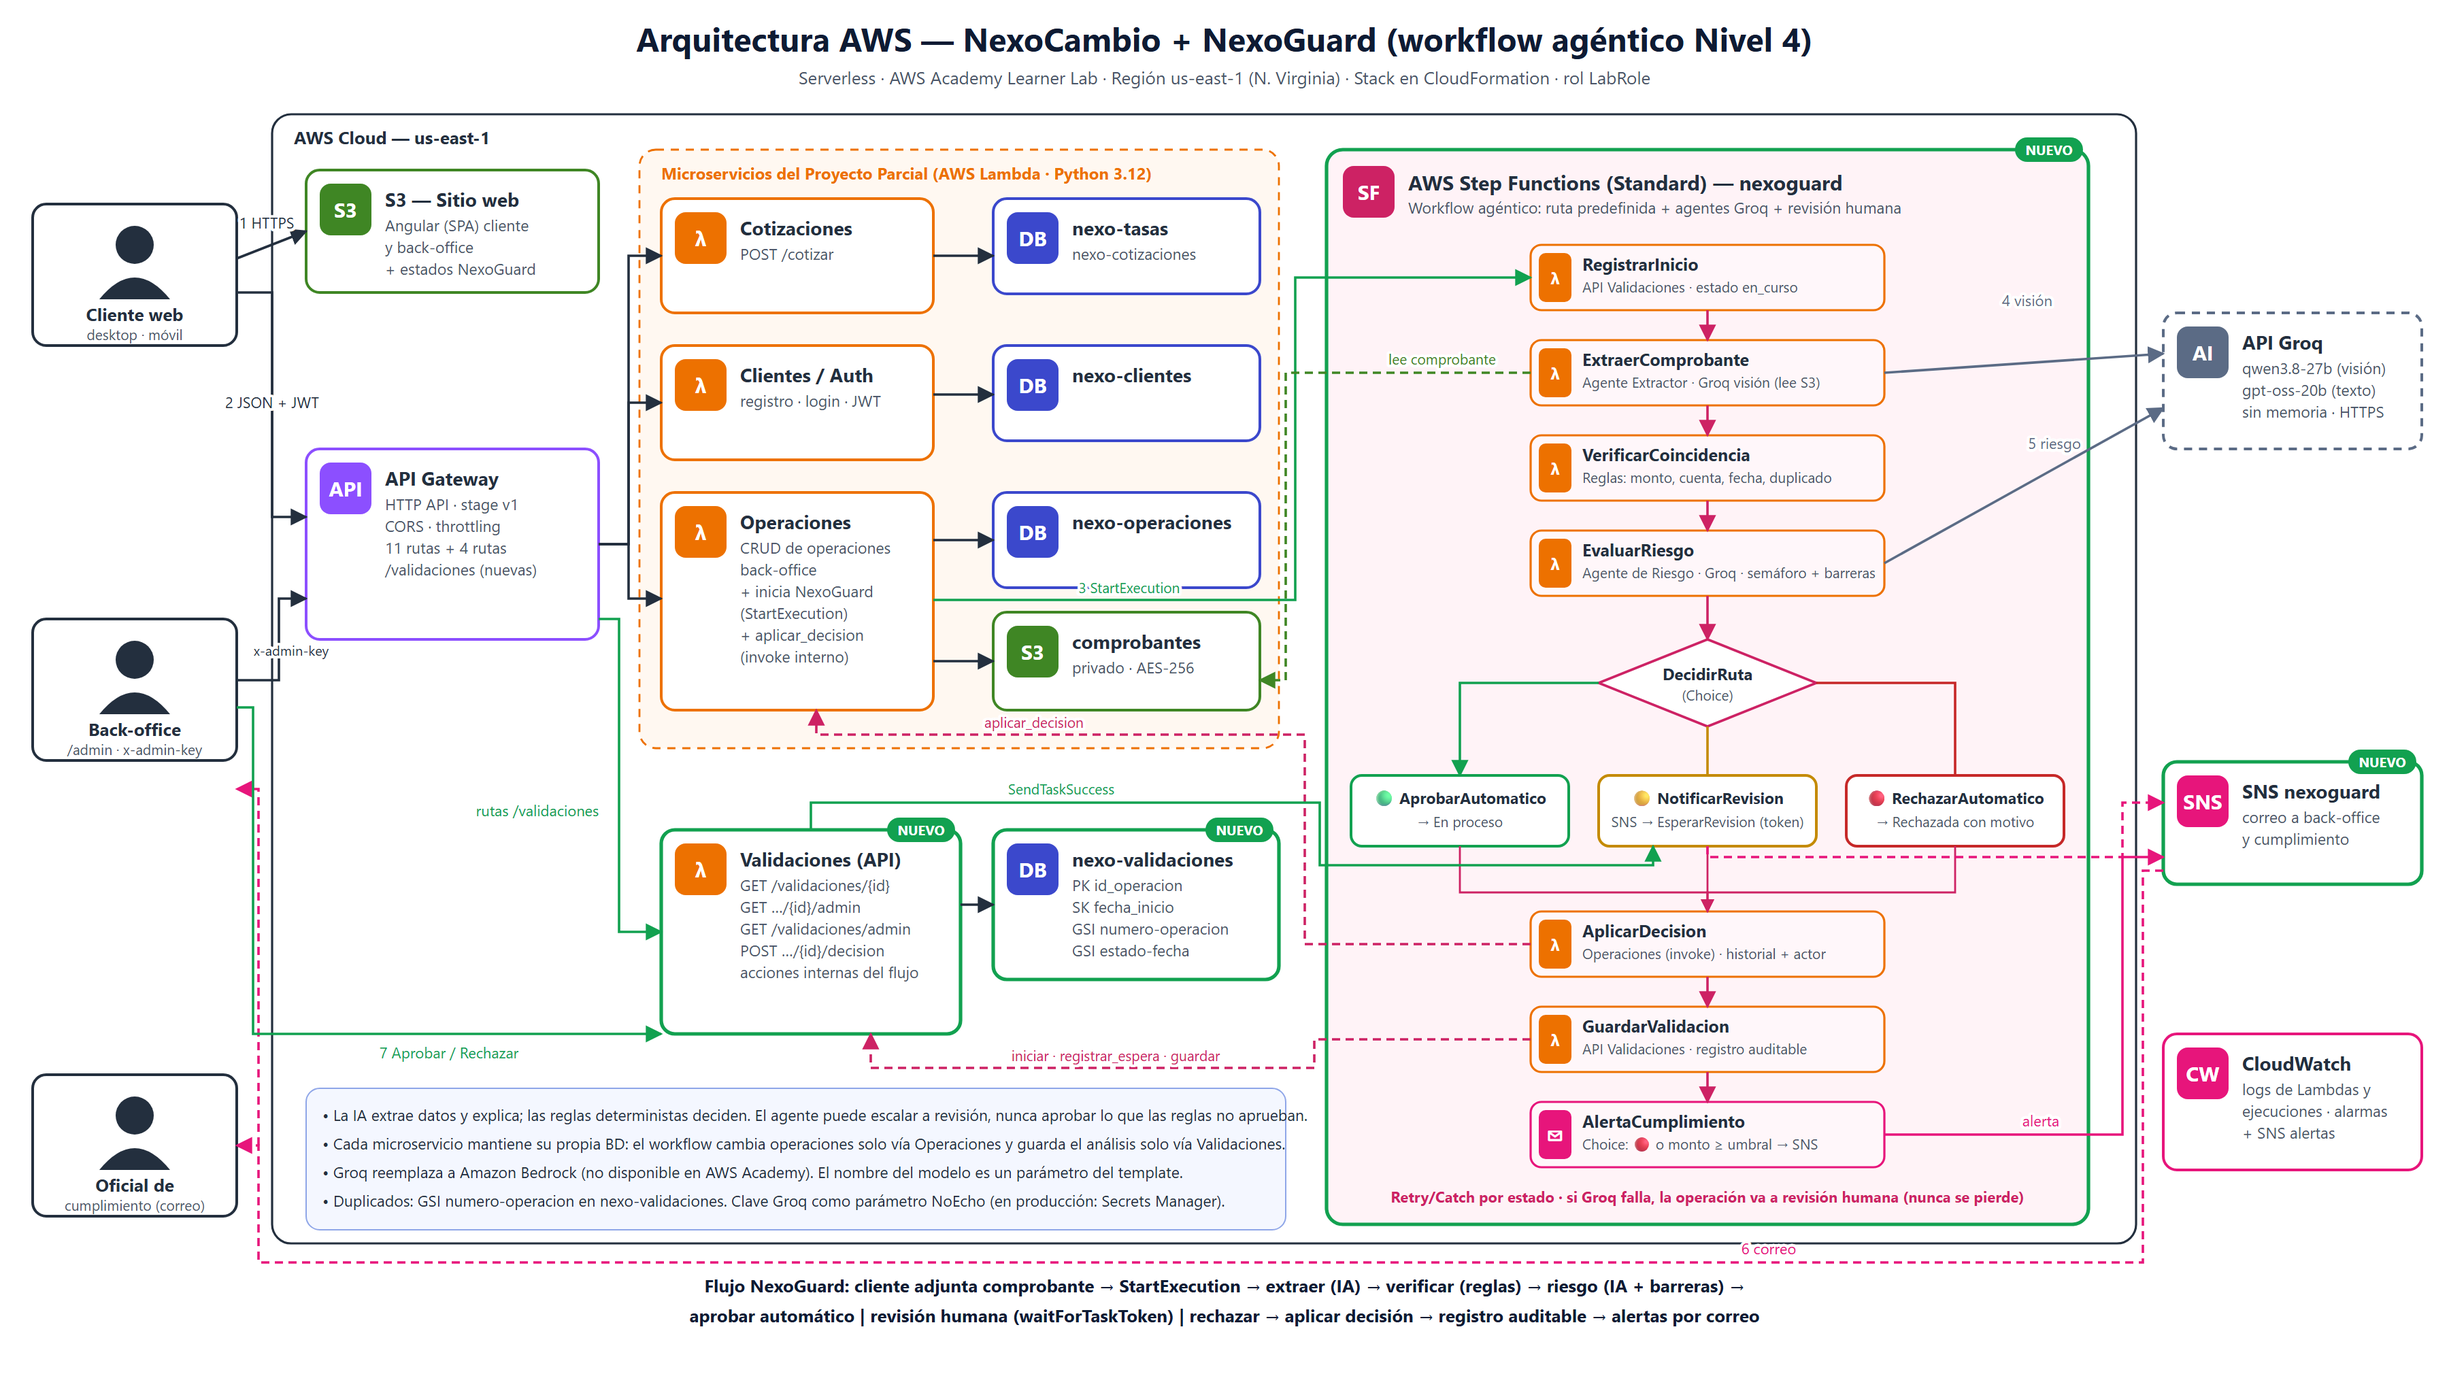
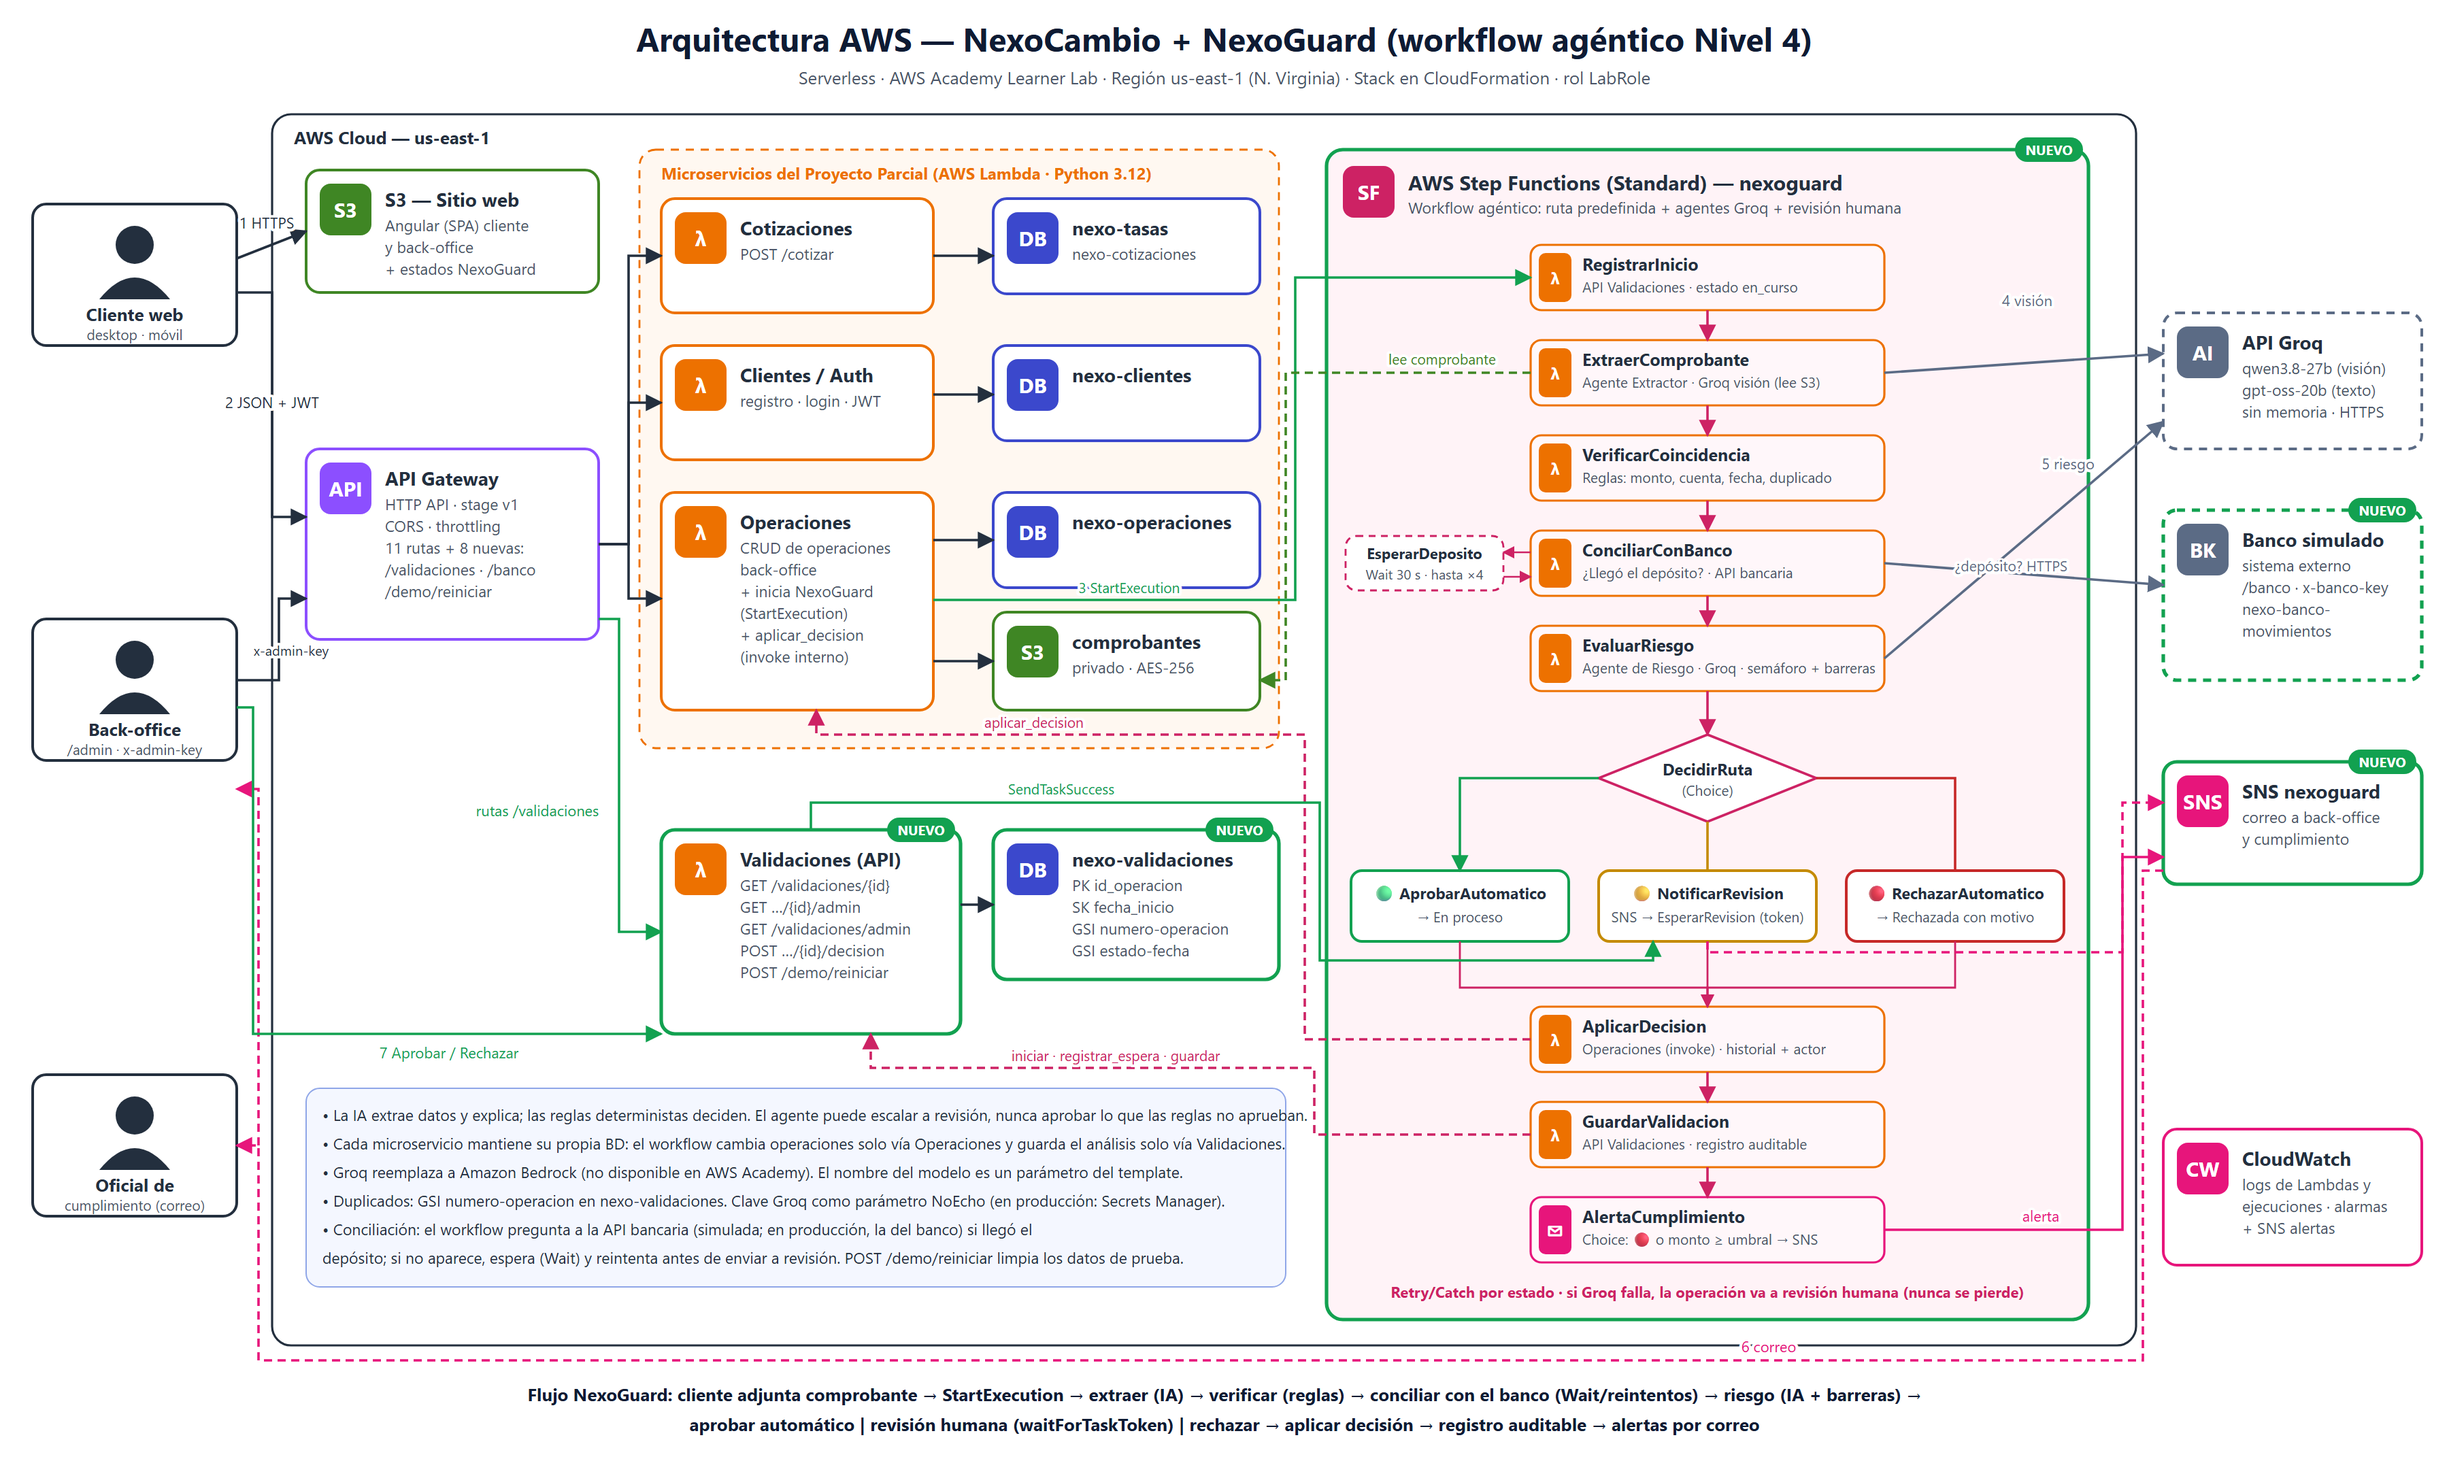
Agregar el banco simulado y la conciliación al diagrama de arquitectura
Paso ConciliarConBanco con su ciclo EsperarDeposito (Wait), banco simulado
como sistema externo (x-banco-key), rutas /banco y /demo/reiniciar y nota
sobre el reinicio de datos de prueba.

diff --git a/docs/final/generar_diagrama_nexoguard.py b/docs/final/generar_diagrama_nexoguard.py
@@ -6,7 +6,7 @@ import subprocess
 from pathlib import Path
 from xml.sax.saxutils import escape as esc
 
-W, H = 1800, 1010
+W, H = 1800, 1085
 DIR = Path(__file__).resolve().parent
 COL = {"lambda": "#ED7100", "api": "#8C4FFF", "ddb": "#3B48CC", "s3": "#3F8624", "cw": "#E7157B",
        "ext": "#5B6B85", "user": "#232F3E", "sfn": "#CD2264", "sns": "#E7157B"}
@@ -72,7 +72,7 @@ text(W / 2, 62, "Serverless · AWS Academy Learner Lab · Región us-east-1 (N. 
      13, fill="#4A5568", anchor="middle")
 
 # Nube AWS
-a('<rect x="200" y="84" width="1370" height="830" rx="14" fill="none" stroke="#232F3E" stroke-width="1.6"/>')
+a('<rect x="200" y="84" width="1370" height="905" rx="14" fill="none" stroke="#232F3E" stroke-width="1.6"/>')
 text(216, 106, "AWS Cloud — us-east-1", 13, True)
 
 # ---------------------------------------------------------------- usuarios
@@ -85,7 +85,7 @@ for y, t, s in [(150, "Cliente web", "desktop · móvil"), (455, "Back-office", 
 
 # ---------------------------------------------------------------- borde
 box(225, 125, 215, 90, "s3", "S3", "S3 — Sitio web", ["Angular (SPA) cliente", "y back-office", "+ estados NexoGuard"])
-box(225, 330, 215, 140, "api", "API", "API Gateway", ["HTTP API · stage v1", "CORS · throttling", "11 rutas + 4 rutas", "/validaciones (nuevas)"])
+box(225, 330, 215, 140, "api", "API", "API Gateway", ["HTTP API · stage v1", "CORS · throttling", "11 rutas + 8 nuevas:", "/validaciones · /banco", "/demo/reiniciar"])
 
 # ---------------------------------------------------------------- microservicios
 a('<rect x="470" y="110" width="470" height="440" rx="12" fill="#FFF8F1" stroke="#ED7100" stroke-dasharray="6 5" stroke-width="1.4"/>')
@@ -103,7 +103,7 @@ flecha([(686, 397), (730, 397)])
 flecha([(686, 486), (730, 486)])
 
 # API Validaciones (nuevo)
-box(486, 610, 220, 150, "lambda", "λ", "Validaciones (API)", ["GET /validaciones/{id}", "GET …/{id}/admin", "GET /validaciones/admin", "POST …/{id}/decision", "acciones internas del flujo"], nuevo=True)
+box(486, 610, 220, 150, "lambda", "λ", "Validaciones (API)", ["GET /validaciones/{id}", "GET …/{id}/admin", "GET /validaciones/admin", "POST …/{id}/decision", "POST /demo/reiniciar"], nuevo=True)
 box(730, 610, 210, 110, "ddb", "DB", "nexo-validaciones", ["PK id_operacion", "SK fecha_inicio", "GSI numero-operacion", "GSI estado-fecha"], nuevo=True)
 flecha([(706, 665), (730, 665)])
 
@@ -116,7 +116,7 @@ for y in (188, 296, 440):
 flecha([(440, 455), (455, 455), (455, 685), (486, 685)], color=NUEVO, label="rutas /validaciones", lx=395, ly=600)
 
 # ---------------------------------------------------------------- Step Functions
-SX, SY, SW, SH = 975, 110, 560, 790
+SX, SY, SW, SH = 975, 110, 560, 860
 a(f'<rect x="{SX}" y="{SY}" width="{SW}" height="{SH}" rx="12" fill="#FFF3F7" stroke="{NUEVO}" stroke-width="2.6"/>')
 a(f'<rect x="{SX + 12}" y="{SY + 12}" width="38" height="38" rx="8" fill="{COL["sfn"]}"/>')
 text(SX + 31, SY + 37, "SF", 15, True, "#fff", "middle")
@@ -130,6 +130,7 @@ pw = 260
 steps = [("RegistrarInicio", "API Validaciones · estado en_curso", "lambda", "λ"),
          ("ExtraerComprobante", "Agente Extractor · Groq visión (lee S3)", "lambda", "λ"),
          ("VerificarCoincidencia", "Reglas: monto, cuenta, fecha, duplicado", "lambda", "λ"),
+         ("ConciliarConBanco", "¿Llegó el depósito? · API bancaria", "lambda", "λ"),
          ("EvaluarRiesgo", "Agente de Riesgo · Groq · semáforo + barreras", "lambda", "λ")]
 y0 = SY + 70
 for i, (t, s, k, g) in enumerate(steps):
@@ -137,12 +138,19 @@ for i, (t, s, k, g) in enumerate(steps):
     if i:
         flecha([(cx + pw / 2, y0 + i * 70 - 22), (cx + pw / 2, y0 + i * 70)], COL["sfn"])
 # Choice
-dy = y0 + 4 * 70 + 10
+dy = y0 + 5 * 70 + 10
 dcx = cx + pw / 2
 a(f'<polygon points="{dcx},{dy} {dcx + 80},{dy + 32} {dcx},{dy + 64} {dcx - 80},{dy + 32}" fill="#fff" stroke="{COL["sfn"]}" stroke-width="1.8"/>')
 text(dcx, dy + 30, "DecidirRuta", 12, True, anchor="middle")
 text(dcx, dy + 45, "(Choice)", 10.5, fill="#4A5568", anchor="middle")
-flecha([(dcx, y0 + 3 * 70 + 48), (dcx, dy)], COL["sfn"])
+flecha([(dcx, y0 + 4 * 70 + 48), (dcx, dy)], COL["sfn"])
+# ciclo de espera de la conciliación (estado Wait)
+wy = y0 + 3 * 70
+a(f'<rect x="{SX + 14}" y="{wy + 4}" width="116" height="40" rx="8" fill="#fff" stroke="{COL["sfn"]}" stroke-width="1.4" stroke-dasharray="5 4"/>')
+text(SX + 72, wy + 21, "EsperarDeposito", 11, True, anchor="middle")
+text(SX + 72, wy + 36, "Wait 30 s · hasta ×4", 10, fill="#4A5568", anchor="middle")
+flecha([(cx, wy + 16), (SX + 130, wy + 16)], COL["sfn"], w=1.3)
+flecha([(SX + 130, wy + 34), (cx, wy + 34)], COL["sfn"], w=1.3)
 by = dy + 100
 ramas = [(SX + 18, "🟢 AprobarAutomatico", "→ En proceso", "#12A150"),
          (SX + 200, "🟡 NotificarRevision", "SNS → EsperarRevision (token)", "#C48A00"),
@@ -168,34 +176,38 @@ text(SX + SW / 2, SY + SH - 16, "Retry/Catch por estado · si Groq falla, la ope
 # ---------------------------------------------------------------- servicios a la derecha
 box(1590, 230, 190, 100, "ext", "AI", "API Groq", ["qwen3.8-27b (visión)", "gpt-oss-20b (texto)", "sin memoria · HTTPS"], dash=True)
 box(1590, 560, 190, 90, "sns", "SNS", "SNS nexoguard", ["correo a back-office", "y cumplimiento"], nuevo=True)
-box(1590, 760, 190, 100, "cw", "CW", "CloudWatch", ["logs de Lambdas y", "ejecuciones · alarmas", "+ SNS alertas"])
+box(1590, 375, 190, 125, "ext", "BK", "Banco simulado", ["sistema externo", "/banco · x-banco-key", "nexo-banco-", "movimientos"], nuevo=True, dash=True)
+box(1590, 830, 190, 100, "cw", "CW", "CloudWatch", ["logs de Lambdas y", "ejecuciones · alarmas", "+ SNS alertas"])
 
 # conexiones del workflow
 flecha([(686, 441), (952, 441), (952, y0 + 24), (cx, y0 + 24)], NUEVO, label="3 StartExecution", lx=830, ly=436, lsize=10.5)
 flecha([(cx, y0 + 70 + 24), (945, y0 + 94), (945, 500), (926, 500)], COL["s3"], label="lee comprobante", lx=1060, ly=y0 + 88, dash=True, lsize=10.5)
 flecha([(cx + pw, y0 + 70 + 24), (1590, 260)], COL["ext"], label="4 visión", lx=1490, ly=225)
-flecha([(cx + pw, y0 + 210 + 24), (1590, 300)], COL["ext"], label="5 riesgo", lx=1510, ly=330)
+flecha([(cx + pw, y0 + 280 + 24), (1590, 310)], COL["ext"], label="5 riesgo", lx=1520, ly=345)
+flecha([(cx + pw, y0 + 210 + 24), (1590, 430)], COL["ext"], label="¿depósito? HTTPS", lx=1478, ly=420, lsize=10.5)
 flecha([(cx, ay + 24), (959, ay + 24), (959, 540), (600, 540), (600, 522)], COL["sfn"], label="aplicar_decision", lx=760, ly=535, dash=True, lsize=10.5)
 flecha([(cx, ay + 94), (966, ay + 94), (966, 785), (640, 785), (640, 760)], COL["sfn"], label="iniciar · registrar_espera · guardar", lx=820, ly=780, dash=True, lsize=10.5)
 flecha([(SX + 280, by + 52), (SX + 280, by + 60), (1560, by + 60), (1560, 590), (1590, 590)], COL["sns"], dash=True)
 flecha([(cx + pw, ay + 164), (1560, ay + 164), (1560, 630), (1590, 630)], COL["sns"], label="alerta", lx=1500, ly=ay + 158)
-flecha([(1590, 640), (1575, 640), (1575, 928), (190, 928), (190, 842), (174, 842)], COL["sns"], label="6 correo", lx=1300, ly=922, dash=True)
+flecha([(1590, 640), (1575, 640), (1575, 1000), (190, 1000), (190, 842), (174, 842)], COL["sns"], label="6 correo", lx=1300, ly=994, dash=True)
 flecha([(190, 842), (190, 580), (174, 580)], COL["sns"], dash=True)
 # decisión humana
 flecha([(174, 520), (186, 520), (186, 760), (486, 760)], NUEVO, label="7 Aprobar / Rechazar", lx=330, ly=778)
 flecha([(596, 610), (596, 590), (970, 590), (970, by + 66), (SX + 240, by + 66), (SX + 240, by + 52)], NUEVO, label="SendTaskSuccess", lx=780, ly=584, lsize=10.5)
 
 # leyenda / decisiones
-a('<rect x="225" y="800" width="720" height="104" rx="10" fill="#F4F7FF" stroke="#8FA6E8"/>')
+a('<rect x="225" y="800" width="720" height="146" rx="10" fill="#F4F7FF" stroke="#8FA6E8"/>')
 notas = ["• La IA extrae datos y explica; las reglas deterministas deciden. El agente puede escalar a revisión, nunca aprobar lo que las reglas no aprueban.",
          "• Cada microservicio mantiene su propia BD: el workflow cambia operaciones solo vía Operaciones y guarda el análisis solo vía Validaciones.",
          "• Groq reemplaza a Amazon Bedrock (no disponible en AWS Academy). El nombre del modelo es un parámetro del template.",
-         "• Duplicados: GSI numero-operacion en nexo-validaciones. Clave Groq como parámetro NoEcho (en producción: Secrets Manager)."]
+         "• Duplicados: GSI numero-operacion en nexo-validaciones. Clave Groq como parámetro NoEcho (en producción: Secrets Manager).",
+         "• Conciliación: el workflow pregunta a la API bancaria (simulada; en producción, la del banco) si llegó el",
+         "  depósito; si no aparece, espera (Wait) y reintenta antes de enviar a revisión. POST /demo/reiniciar limpia los datos de prueba."]
 for i, n in enumerate(notas):
     text(237, 824 + i * 21, n, 11.5)
-text(W / 2, 950, "Flujo NexoGuard: cliente adjunta comprobante → StartExecution → extraer (IA) → verificar (reglas) → riesgo (IA + barreras) →",
+text(W / 2, 1030, "Flujo NexoGuard: cliente adjunta comprobante → StartExecution → extraer (IA) → verificar (reglas) → conciliar con el banco (Wait/reintentos) → riesgo (IA + barreras) →",
      13, True, "#0E1B33", "middle")
-text(W / 2, 972, "aprobar automático | revisión humana (waitForTaskToken) | rechazar → aplicar decisión → registro auditable → alertas por correo",
+text(W / 2, 1052, "aprobar automático | revisión humana (waitForTaskToken) | rechazar → aplicar decisión → registro auditable → alertas por correo",
      13, True, "#0E1B33", "middle")
 a('</svg>')
 
